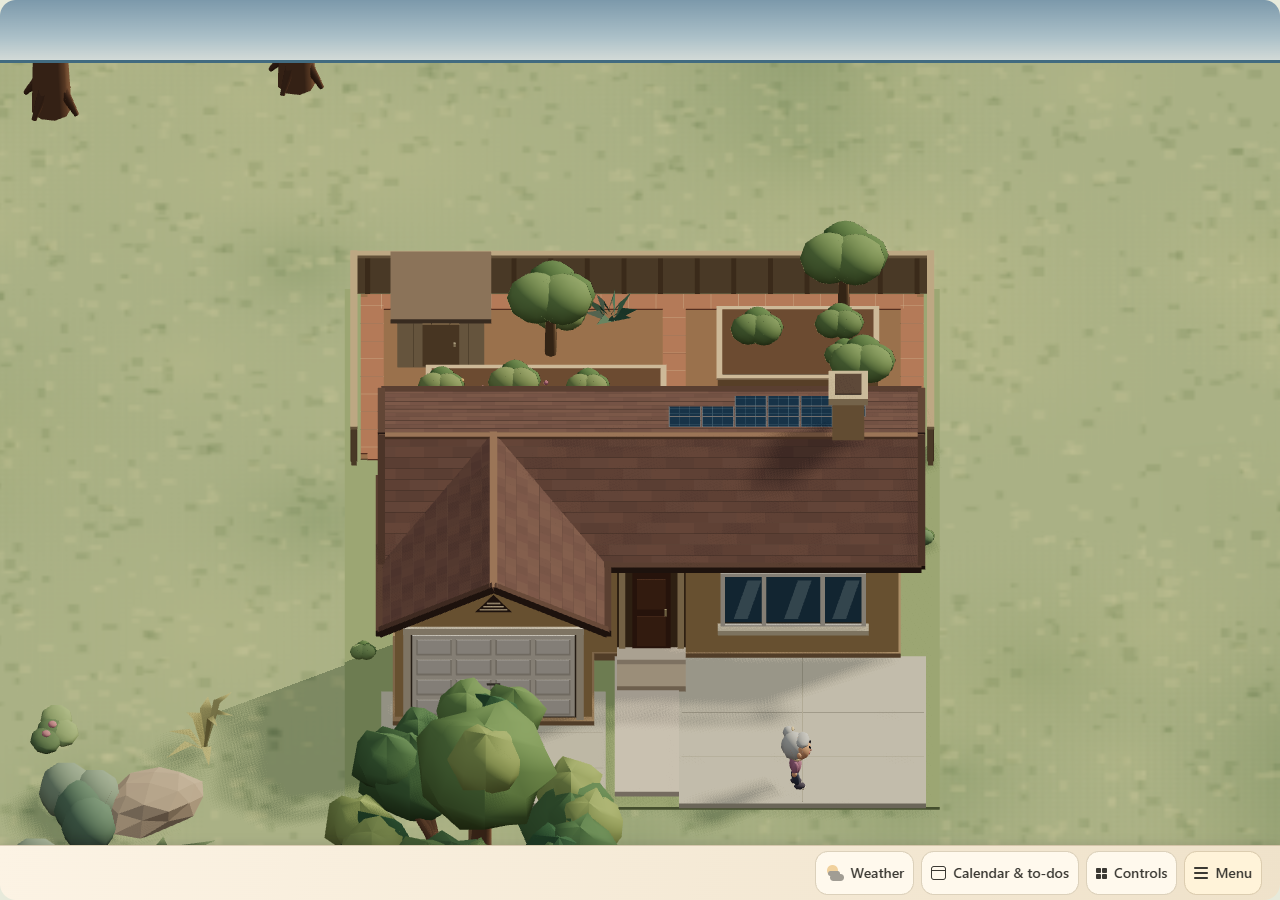
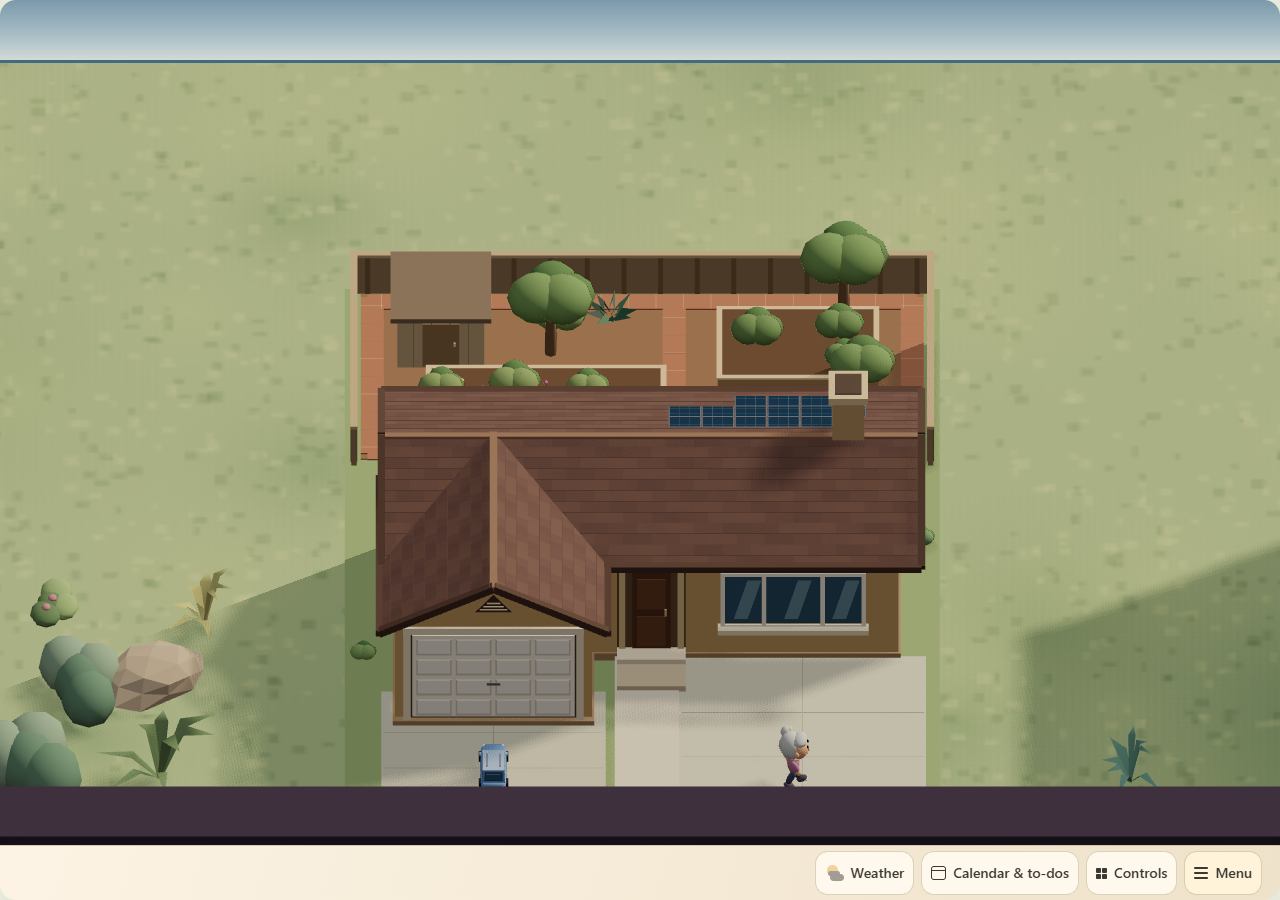
Document verified frontend camera release and tablet checks

diff --git a/home-assistant/projects/roomcraft/docs/device-camera-views.md b/home-assistant/projects/roomcraft/docs/device-camera-views.md
@@ -93,25 +93,30 @@ No credentials, private device values, account identifiers, photos, camera media
 
 ## Verification and release status
 
-The first candidate exposed an Innoflight framing gap on the actual tablet: its authored X position was 1750, while the original synthetic fixture used 2020 and did not reproduce the foreground condo occlusion. The bottom half of the campus was obscured despite the earlier fixture passing. The corrected front preset uses 40° tilt, and a temporary actual-tablet preview showed the complete facade and forecourt. The regression now reproduces the closer placement; 25 focused camera tests passed. The corrected source is frozen, but its full gate, final built fixture, new deployment and exact readback remain pending. The older candidate artifacts below are not the final release.
+The final runtime passed the full release gate and **745 automated tests**: 640 site tests, 67 bridge tests, 30 installer tests and 8 presence tests. [Runtime CI](https://github.com/Kenkneeshio/AI_VIBECODING/actions/runs/43491551297) succeeded. The gate was rerun after the final runtime/documentation freeze to bind the manifest to the source below; this operational evidence is a later documentation update.
 
-The intermediate `b8bfa630` candidate passed the full release gate and **744 automated tests**: 639 site tests, 67 bridge tests, 30 installer tests and 8 presence tests. That candidate’s production-built browser fixture passed all three synthetic front views, two-frontend storage isolation, the real HA Studio bridge, same-parent cache notifications, local save/reload/reset and framed idle wake. A named front view converted to Free retained the fitted 270° azimuth and 50° tilt in the fixture. Delete/Ctrl+Z in the preview dialog, Delete during preview, Escape/Return to overhead, unchanged drafts and absence of physical actions were verified; the browser exception list was empty.
+The production-built browser fixture passed all three front views, two isolated frontend profiles sharing one synthetic HA account, the real Studio iframe bridge, same-parent cache refresh, local save/reload/reset and framed idle wake. Front-view-to-Free conversion retained the fitted 270° azimuth and 50° tilt. Preview dialog Delete/Ctrl+Z, canvas preview Delete/Escape, overhead return and unchanged drafts/device states passed. It recorded no physical actions and no browser exceptions. The gallery above now uses the final built fixture's synthetic captures.
 
-| Artifact or check | Exact evidence / status |
+Actual tablet verification exposed and corrected a gap in the first candidate: Innoflight at authored X=1750 was partly hidden by the condo, while the original fixture at X=2020 missed that occlusion. The updated fixture reproduces the closer placement; the final 40° tilt reveals the full facade and forecourt. Gold Coast retains a narrow foreground wall band below its facade and limited occlusion at the bottom of its driveway. These are real scene occluders, not missing model bounds; framing does not remove foreground geometry.
+
+| Released artifact | Exact evidence |
 | --- | --- |
-| Intermediate candidate source | `b8bfa630814c202e76493119680713268f42053e`; corrected final source pending |
-| Intermediate candidate manifest | `sha256:c10fefd69f6d1556579f2d6f73b55ab1d53d8217110e8f2de54fd8648012e19c`, 434 inputs; replacement pending |
-| Runtime CI | [Intermediate candidate run 43490206233](https://github.com/Kenkneeshio/AI_VIBECODING/actions/runs/43490206233); corrected-release CI pending |
-| Intermediate owner-private Studio | Version 118 published successfully; corrected version pending |
-| Intermediate Site source | `ae7817dc7c1edc0ce9ec7cce8108b140da7db625` |
-| Intermediate Site subset manifest | `sha256:eee3d9c554c4532c7a3c60bee4df0e2462ba370ed54aebab0cfec4cd5c826236`, 315 inputs |
-| Intermediate shared built artifacts | Five Home, bridge, Studio, HTML and CSS files were byte-identical between the candidate runtime and Site builds |
-| HA installation and readback | Corrected installation and exact live asset/project readback pending |
-| Actual wall tablet | Initial cold start, preference migration, Gold Coast and school checks passed; temporary Innoflight 40° preview passed; corrected deployment proof pending |
+| Final runtime source | `5175c61a1385f1e2a9190b5172ea75d3226f2ad2` |
+| Full-project manifest | `sha256:e4820083863987b09e42f241544aa2b9c80018b8be38ef1ae7552e18a7392dd1`, 434 inputs |
+| Runtime CI | [Run 43491551297](https://github.com/Kenkneeshio/AI_VIBECODING/actions/runs/43491551297), successful |
+| HA browser asset revision | `2b81db0d8a554b34` |
+| HA readback | 14 exact asset hashes on both LAN and remote access |
+| Authored data | Eight non-view dashboard fields and all 82 objects preserved |
+| Owner-private Studio | Version 119 published successfully |
+| Site source | `2bf049f03d84f166ff4f34b38ca8bee564808538` |
+| Site subset manifest | `sha256:a07cf2bd3d1daa351b486aaa525d9429e6d00746da03bbb93f9808bde9081ad1`, 315 inputs |
+| Shared built artifacts | Five Home, bridge, Studio, HTML and CSS files are byte-identical between the runtime and Site builds |
 
-The four public gallery images are retained from the preceding correct synthetic source fixture. The earlier built fixture exercised preference isolation and controls but missed the closer Innoflight occlusion; no household media is included. A separate hosted-Site browser inspection has not been claimed. HA publication, exact readback, runtime CI and physical-tablet checks must complete before this release is considered fully verified. The [engineering handoff](engineering-handoff.md) tracks the final operational state.
+The actual 1920 × 1080 wall tablet cold-launched the final build and retained its original local default. All three fronts were selected, captured and visually inspected, with fitted azimuth/tilt verified as Gold Coast 270°/50°, school 90°/58° and Innoflight 270°/40°. The complete Innoflight facade and forecourt were clear. Default was restored after inspection and the temporary debugging forward was removed.
 
-Reproduce targeted checks from `site/`:
+Actual-tablet Save, local preference readback and app cold-restart restoration of a framed Innoflight Default passed on the earlier candidate before the occlusion correction. The original default was then restored, and the final build retained it. The final browser fixture independently rechecked persistence and isolation on the final assets. No actual second phone/laptop test or separate hosted-Site browser inspection is claimed. Private tablet images and recovery records remain outside Git. The [engineering handoff](engineering-handoff.md) identifies this verified release.
+
+Reproduce targeted checks from `site/`, then run the complete [release gate](release-standard.md#deterministic-release-evidence) after any source change:
 
 ```powershell
 node --test tests/storybook-camera.test.mjs tests/storybook-landmark-camera.test.mjs tests/storybook-camera-preferences.test.mjs ha-local/roomcraft-card.test.mjs
@@ -121,9 +126,7 @@ $env:ROOMCRAFT_DEVICE_CAMERA_QA_DIST='1'
 node scripts/verify-device-camera-browser.mjs
 ```
 
-The browser fixture runs two isolated storage contexts using the same synthetic HA account. It uses the production Home card, editor card, iframe bridge and Studio renderer, and rejects HA preference/layout/device writes. Its passing checks cover all three front views, independent saves/reloads, Studio-to-Home local sharing, reset tombstones, framed idle wake and unchanged authored/device data. The camera tests exercise landscape, portrait and ultrawide fitting with real model factories, transformed bounds, target movement/scale/rotation, deterministic output and deleted-target fallback.
-
-Run the complete [release gate](release-standard.md#deterministic-release-evidence) after the last source change; browser assertions alone do not prove publication. Before deployment, preserve protected backups and capture the actual previous revision, then deploy the exact built input set and verify readback and the intended tablet frontend.
+The camera tests use real model factories across landscape, portrait and ultrawide viewports, transformed bounds, target movement/scale/rotation, deterministic output and deleted-target fallback. The browser fixture uses the production Home/editor cards, iframe bridge and Studio renderer against synthetic HA data; it rejects shared preference, layout and physical-device writes. Its closer-landmark regression preserves the tablet-discovered case.
 
 ## Rollback and recovery
 

diff --git a/home-assistant/projects/roomcraft/docs/engineering-handoff.md b/home-assistant/projects/roomcraft/docs/engineering-handoff.md
@@ -1,8 +1,8 @@
 # Roomcraft engineering handoff
 
-**Release verification in progress:** [Landmark front views and frontend-local defaults](device-camera-views.md). Runtime `b8bfa630814c202e76493119680713268f42053e` and private Studio 118 are intermediate candidates, not the final verified release. Their full gate, 744 tests and built synthetic browser fixture passed, but the actual tablet revealed Innoflight occlusion at a closer authored placement absent from that fixture. The corrected 40° preset and placement regression passed 25 focused tests, and a temporary tablet preview showed the whole facade/forecourt. Initial cold-start/migration and Gold Coast/school checks passed. Corrected full gates, built proof, CI, publication and exact readback remain pending. The release guide retains candidate provenance and the previous runtime/HA/Site rollback baseline.
+**Current verified release:** [Landmark front views and frontend-local defaults](device-camera-views.md), runtime `5175c61a1385f1e2a9190b5172ea75d3226f2ad2`, HA `2b81db0d8a554b34`, owner-private Studio 119. Three model-derived fronts and per-origin/profile/dashboard defaults share the real Home/Studio bridge while Studio keeps overhead editing. Full gates, 745 tests, runtime CI and final built browser isolation/persistence/keyboard/idle regressions passed. All 14 assets matched over LAN and remote access; eight non-view fields and all 82 objects were preserved. The 1920 × 1080 tablet cold-launched with its original local default, and all three front poses/captures were verified. Tablet discovery corrected Innoflight occlusion with a closer-placement regression and 40° tilt. The guide records exact manifests, the narrower scope of pre-correction tablet Save testing, remaining Gold Coast driveway occlusion, no separate hosted-Site/second-device inspection, and rollback.
 
-**Current verified release:** [Home-first idle camera](idle-camera.md), runtime `bab951aaf5eda8d1a66824f4e20a238535d6054f`, HA `ee1b46eac2eb8d12`, owner-private Studio 117. Home slowly visits weighted actual-scene interests after 30 seconds, returns to saved Default on touch and consumes the wake gesture. Instant start and browser-local timings are in Menu → Display. All 727 tests, full gates, CI, built browser regressions, exact LAN/remote readback and actual tablet cold-launch/instant/automatic/touch-return checks passed. The guide records the corrected queued-RAF race, drawer portal contract, modules, artifact manifests, verification limits and rollback. All 82 objects and shared preferences are preserved.
+**Preceding release:** [Home-first idle camera](idle-camera.md), runtime `bab951aaf5eda8d1a66824f4e20a238535d6054f`, HA `ee1b46eac2eb8d12`, owner-private Studio 117. Home slowly visits weighted actual-scene interests after 30 seconds, returns to saved Default on touch and consumes the wake gesture. Instant start and browser-local timings are in Menu → Display. All 727 tests, full gates, CI, built browser regressions, exact LAN/remote readback and actual tablet cold-launch/instant/automatic/touch-return checks passed. The guide records the corrected queued-RAF race, drawer portal contract, modules, artifact manifests, verification limits and rollback. All 82 objects and shared preferences are preserved.
 
 **Preceding release:** [Living world and wildlife](living-world.md), source `442666f6`, HA `ec407312d1d413aa`, owner-private Studio 115. Five marine species with eight articulated variants, coat/size variation, six beach activities and bounded bird/plant/water/traffic details share editable settings and previews. All 714 tests, full release gates, runtime CI, built Home/Studio browser proofs, exact LAN/remote readback and actual tablet preview/Save passed. All 82 objects and holiday preferences were preserved. The guide owns module boundaries, finite catalog limits, GPU budget, exact provenance and rollback.
 

diff --git a/home-assistant/projects/roomcraft/docs/goals.md b/home-assistant/projects/roomcraft/docs/goals.md
@@ -2,7 +2,7 @@
 
 | Goal | Reason | Evidence of completion |
 | --- | --- | --- |
-| Give each frontend its own opening view and clear landmark fronts | A phone or laptop camera choice must not replace the wall tablet's default; exterior destinations need useful reusable views | Local migration/reset contract and model-derived framing implemented; final browser/gate/deployment proof pending in [Device camera views](device-camera-views.md) |
+| Give each frontend its own opening view and clear landmark fronts | A phone or laptop camera choice must not replace the wall tablet's default; exterior destinations need useful reusable views | Deployed with 745 tests, CI, isolated frontend browser checks, exact readback and actual tablet front/default verification; see [Device camera views](device-camera-views.md) for evidence and limits |
 | Keep home controls primary while revealing occasional scenery discoveries | An untouched wall display should slowly explore existing holiday and activity art, then recover immediately and safely on touch | Deployed with 727 tests, CI, production browser regressions, exact readback and actual tablet instant/automatic/touch-return checks; see [Idle camera](idle-camera.md) |
 | Make the miniature rewarding to revisit without obscuring home controls | The household wants many varied wildlife, activity and scenery encounters with editable settings | Shared catalog deployed with 714 tests, CI, Home/Studio proofs and actual tablet preview/Save/readback; release evidence in [Living world](living-world.md) |
 | Celebrate holidays automatically while respecting individual preferences | Asian and other major celebrations should have editable art, lighting and events, and disabling one must not disable others | 31 independent presets deployed with 688 tests, CI, shared browser proofs and actual tablet preview/Save/readback; see [holiday themes](holiday-themes.md) |

diff --git a/home-assistant/projects/roomcraft/CHANGELOG.md b/home-assistant/projects/roomcraft/CHANGELOG.md
@@ -1,10 +1,10 @@
 # Changelog
 
-## Landmark front views and frontend-local defaults — 13 November 2026 (release in progress)
+## Landmark front views and frontend-local defaults — 13 November 2026
 
 - Add model-derived front views for the family house, elementary school and office; save any supported view as this frontend's default.
 - Migrate the old HA account default once into each browser/profile/origin/dashboard. Save and reset remain local, with explicit storage failures and a reset tombstone.
-- Add a separate Studio view-preview dialog while retaining overhead editing. The initial candidate passed 744 tests and built fixtures, but tablet verification exposed Innoflight occlusion at a closer placement. A 40° front view and updated regression passed 25 focused tests and a temporary tablet preview; corrected full gates/publication remain pending. Runtime `b8bfa630` and Studio 118 are intermediate candidates. See [Device camera views](docs/device-camera-views.md) for evidence and rollback.
+- Add a separate Studio view-preview dialog while retaining overhead editing. Tablet verification corrected Innoflight occlusion with a 40° front view and closer-placement regression. Final full gates, 745 tests, CI, built browser regressions, exact LAN/remote readback and actual tablet front-view/default checks passed. HA `2b81db0d8a554b34`, private Studio 119; all 82 objects and eight non-view dashboard fields preserved. See [Device camera views](docs/device-camera-views.md) for exact evidence, limits and rollback.
 
 ## Home-first idle camera — 12 November 2026
 
